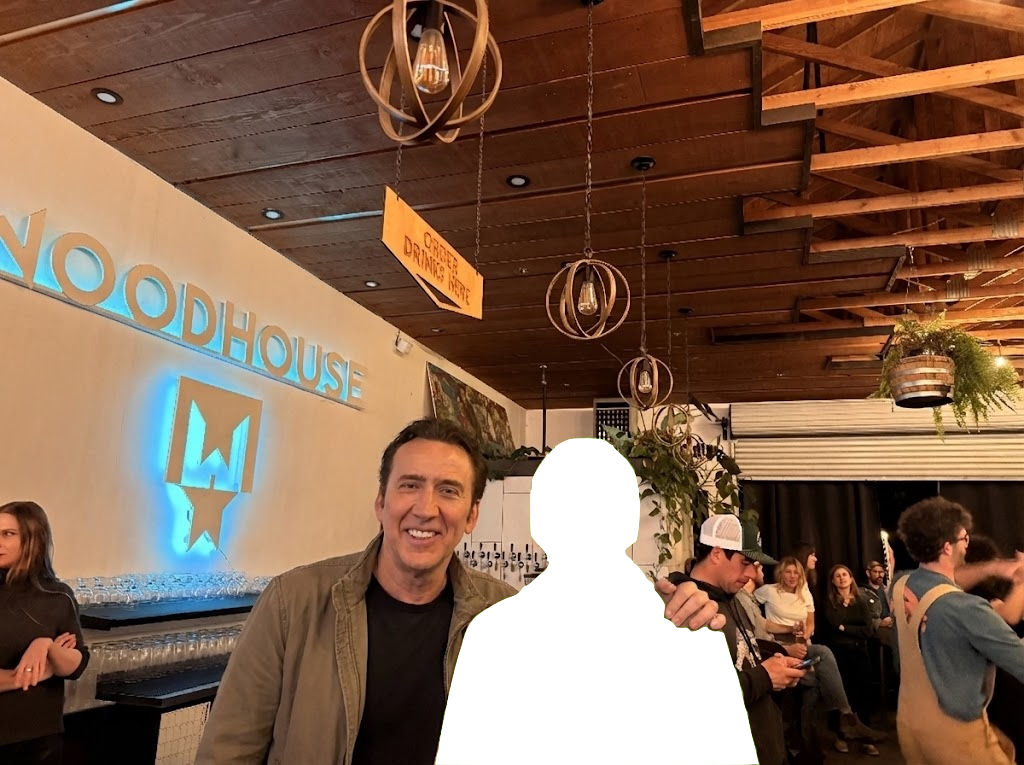
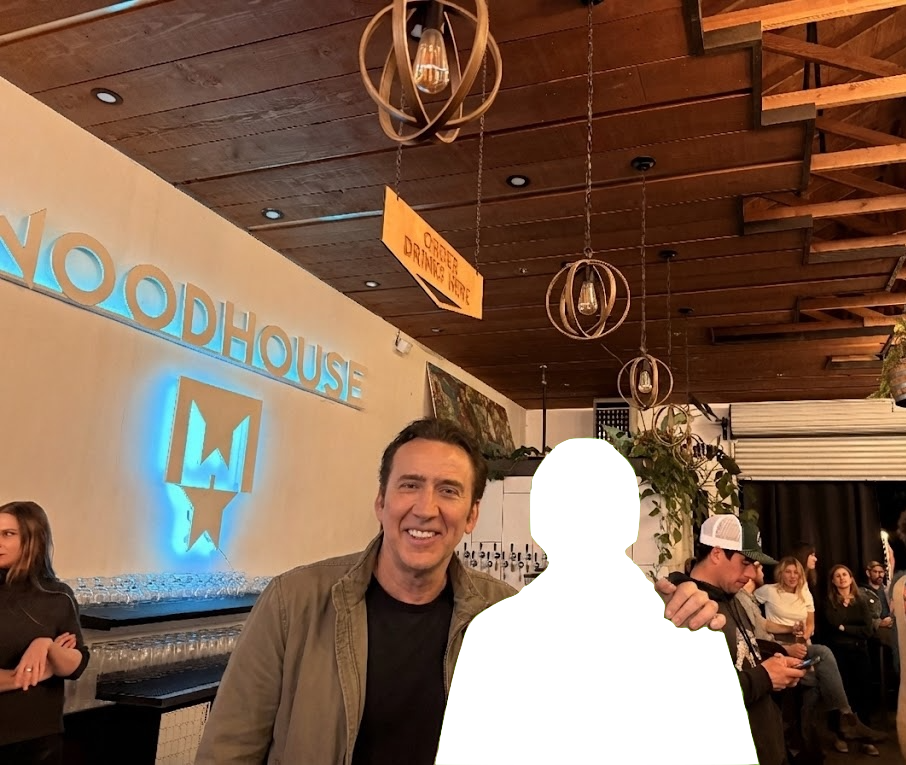
Revamp souvenir gallery and poster composition
Gallery now stores both raw selfies and souvenir images, displaying rank, name, and timestamp for each entry. Poster composition uses calibrated transform values for consistent souvenir generation. The 'Cageify Everyone' toggle now switches between raw and souvenir images in the gallery. Updated template PNG for improved overlay.

diff --git a/docs/forFun/nicCage/leaderboard.js b/docs/forFun/nicCage/leaderboard.js
@@ -23,23 +23,11 @@ document.addEventListener('DOMContentLoaded', () => {
     if (cageifyAllBtn) {
         cageifyAllBtn.addEventListener('click', () => {
             isGlobalCaged = !isGlobalCaged;
-            cageifyAllBtn.textContent = isGlobalCaged ? 'Un-Cage Everyone' : 'Cageify Everyone';
+            cageifyAllBtn.textContent = isGlobalCaged ? 'Un-Cage' : 'Cageify Everyone';
 
-            const overlays = document.querySelectorAll('.cage-overlay');
-            const selfies = document.querySelectorAll('.selfie-img');
-
-            overlays.forEach(overlay => {
-                overlay.style.opacity = isGlobalCaged ? '1' : '0';
-            });
-
-            selfies.forEach(img => {
-                if (isGlobalCaged) {
-                    // Shrunk down (~35% width), bottom-aligned, shifted right
-                    // User request: "Translate down farther, and slightly farther to the right. Align the bottoms"
-                    img.style.transform = 'scale(0.4) translate(35%, 35%)';
-                } else {
-                    img.style.transform = 'none';
-                }
+            const souvenirs = document.querySelectorAll('.souvenir-img');
+            souvenirs.forEach(img => {
+                img.style.opacity = isGlobalCaged ? '1' : '0';
             });
         });
     }
@@ -78,6 +66,11 @@ document.addEventListener('DOMContentLoaded', () => {
         const template = new Image();
         template.src = 'nicCageTemplate.png'; // Using the PNG with transparency
 
+        // Hardcoded Calibration Values (Success)
+        const CAL_X = 0.39;
+        const CAL_Y = 0.51;
+        const CAL_SCALE = 0.50;
+
         template.onload = () => {
             canvas.width = template.width;
             canvas.height = template.height;
@@ -103,44 +96,39 @@ document.addEventListener('DOMContentLoaded', () => {
                 sy = (vHeight - sHeight) / 2;
             }
 
+            // Capture raw photo initial (full size)
             context.save();
-            // Apply vintage filter to match the template style
             context.filter = 'sepia(0.3) contrast(1.1) brightness(0.9)';
-
-            // Draw the video frame nicely cropped to fill the WHOLE canvas
             context.drawImage(video, sx, sy, sWidth, sHeight, 0, 0, canvas.width, canvas.height);
-
             context.restore();
 
-            // CAPTURE RAW SELFIE FOR GALLERY (Before adding template)
-            // This is what will be shown in the gallery initially
             const rawSelfieUrl = canvas.toDataURL('image/jpeg', 0.7);
+            const rawSelfieImg = new Image();
 
-            // CLEAR CANVAS to prepare for "Souvenir" composition
-            context.clearRect(0, 0, canvas.width, canvas.height);
+            rawSelfieImg.onload = () => {
+                // Clear and Redraw with Transform for Composition
+                context.clearRect(0, 0, canvas.width, canvas.height);
 
-            // 1b. Redraw Video with "Cageify" transform for the Poster
-            // Transform: scale(0.4) translate(35%, 35%)
-            // Center-based logic conversion:
-            // Scale 0.4 keeps center. Top-left moves to 0.3W, 0.3H.
-            // Translate 35% adds 0.35W, 0.35H.
-            // Final Dest: X=0.65W, Y=0.65H, W=0.4W, H=0.4H.
-            const destX = canvas.width * 0.65;
-            const destY = canvas.height * 0.65;
-            const destW = canvas.width * 0.4;
-            const destH = canvas.height * 0.4;
+                // 1b. Redraw Photo with Transform
+                const destW = canvas.width * CAL_SCALE;
+                const destH = canvas.height * CAL_SCALE;
+                const destX = canvas.width * CAL_X;
+                const destY = canvas.height * CAL_Y;
 
-            context.save();
-            context.filter = 'sepia(0.3) contrast(1.1) brightness(0.9)';
-            context.drawImage(video, sx, sy, sWidth, sHeight, destX, destY, destW, destH);
-            context.restore();
+                context.drawImage(rawSelfieImg, 0, 0, rawSelfieImg.width, rawSelfieImg.height, destX, destY, destW, destH);
 
-            // 2. Draw Template ON TOP (The hole in the template reveals the photo)
-            context.drawImage(template, 0, 0);
+                // 2. Draw Template ON TOP
+                context.drawImage(template, 0, 0);
 
-            // Export (Result View shows the full poster)
-            posterFinal.src = canvas.toDataURL('image/png');
-            posterFinal.style.display = 'block';
+                // Export Souvenir
+                const souvenirUrl = canvas.toDataURL('image/png');
+                posterFinal.src = souvenirUrl;
+                posterFinal.style.display = 'block';
+
+                // Save to Gallery (Both images)
+                saveToGallery(rawSelfieUrl, souvenirUrl);
+            };
+            rawSelfieImg.src = rawSelfieUrl;
 
             cameraStep.classList.add('hidden');
             resultStep.classList.remove('hidden');
@@ -148,9 +136,6 @@ document.addEventListener('DOMContentLoaded', () => {
             if (stream) {
                 stream.getTracks().forEach(track => track.stop());
             }
-
-            // Save the raw selfie to the gallery
-            saveToGallery(rawSelfieUrl);
         };
 
         template.onerror = () => {
@@ -162,7 +147,7 @@ document.addEventListener('DOMContentLoaded', () => {
     downloadBtn.addEventListener('click', () => {
         const link = document.createElement('a');
         link.download = `NIC_CAGE_HUNT_VICTORY_${agentName.toUpperCase()}.png`;
-        link.href = canvas.toDataURL();
+        link.href = posterFinal.src;
         link.click();
     });
 
@@ -195,15 +180,18 @@ document.addEventListener('DOMContentLoaded', () => {
     });
 
     // --- STORAGE ---
-    function saveToGallery(imageData) {
+    function saveToGallery(selfieData, souvenirData) {
         let gallery = JSON.parse(localStorage.getItem('agentGallery') || '[]');
-        gallery.push({ name: agentName, image: imageData, date: Date.now() }); // Push to end (chronological)
-        if (gallery.length > 32) gallery.shift(); // Remove oldest if full, keeping newest? Or keep oldest?
-        // "First person... at the top". If I push, they are at the bottom of the array.
-        // Wait, display loop order matters. Currently forEach iterates 0..N.
-        // If I use push(), index 0 is first person. Index 0 displays first.
-        // So push() + forEach() = First person at top.
-        // Previous code was unshift(), so Newest was index 0.
+        gallery.push({
+            name: agentName,
+            selfie: selfieData,
+            souvenir: souvenirData,
+            date: Date.now()
+        });
+
+        // Keep last 50
+        if (gallery.length > 50) gallery.shift();
+
         localStorage.setItem('agentGallery', JSON.stringify(gallery));
     }
 
@@ -219,7 +207,9 @@ document.addEventListener('DOMContentLoaded', () => {
             galleryGrid.innerHTML = '<p style="grid-column: 1/-1; text-align: center; opacity: 0.5;">REGISTRY EMPTY</p>';
             return;
         }
-        gallery.forEach(entry => {
+
+        // Show oldest first (chronological)
+        gallery.forEach((entry, index) => {
             const card = document.createElement('div');
             card.style.position = 'relative';
             card.style.background = 'rgba(0,0,0,0.4)';
@@ -231,50 +221,77 @@ document.addEventListener('DOMContentLoaded', () => {
             const imgContainer = document.createElement('div');
             imgContainer.style.position = 'relative';
             imgContainer.style.width = '100%';
-            imgContainer.style.overflow = 'hidden'; // Keep transformed image inside bounds
+            imgContainer.style.aspectRatio = '3/4'; // Enforce aspect ratio to avoid jumps
+            imgContainer.style.overflow = 'hidden';
 
-            // Raw Selfie
+            // 1. Raw Selfie (Base)
+            // Use 'image' property for legacy support, 'selfie' for new
+            const selfieSrc = entry.selfie || entry.image;
+
             const img = document.createElement('img');
-            img.src = entry.image;
+            img.src = selfieSrc;
             img.classList.add('selfie-img');
             img.style.width = '100%';
+            img.style.height = '100%';
+            img.style.objectFit = 'cover';
             img.style.display = 'block';
             img.style.borderRadius = '3px';
-            img.style.transition = 'transform 0.5s ease'; // Smooth move
-            img.style.transformOrigin = 'center center';
 
-            // Cage Overlay (Hidden by default)
-            const overlay = document.createElement('img');
-            overlay.src = 'nicCageTemplate.png';
-            overlay.classList.add('cage-overlay');
-            overlay.style.position = 'absolute';
-            overlay.style.top = '0';
-            overlay.style.left = '0';
-            overlay.style.width = '100%';
-            overlay.style.height = '100%';
-            overlay.style.opacity = '0';
-            overlay.style.transition = 'opacity 0.3s ease';
-            overlay.style.pointerEvents = 'none';
+            // 2. Souvenir (Overlay, toggleable)
+            // If legacy entry has no souvenir, maybe generate one on fly? typically hard.
+            // Just show nothing or fallback.
+            const souvenirSrc = entry.souvenir;
 
             imgContainer.appendChild(img);
-            imgContainer.appendChild(overlay);
 
-            // Name
-            const nameP = document.createElement('p');
-            nameP.style.fontSize = '0.7rem';
-            nameP.style.color = 'var(--primary-gold)';
-            nameP.style.marginTop = '5px';
-            nameP.textContent = entry.name;
+            if (souvenirSrc) {
+                const souvenirImg = document.createElement('img');
+                souvenirImg.src = souvenirSrc;
+                souvenirImg.classList.add('souvenir-img'); // Hook for toggle
+                souvenirImg.style.position = 'absolute';
+                souvenirImg.style.top = '0';
+                souvenirImg.style.left = '0';
+                souvenirImg.style.width = '100%';
+                souvenirImg.style.height = '100%';
+                souvenirImg.style.objectFit = 'contain'; // Souvenir preserves its ratio
+                souvenirImg.style.opacity = '0'; // Hidden by default
+                souvenirImg.style.transition = 'opacity 0.5s ease';
+                imgContainer.appendChild(souvenirImg);
+            }
+
+            // Details: Rank, Name, Time
+            const detailsDiv = document.createElement('div');
+            detailsDiv.style.marginTop = '10px';
+            detailsDiv.style.display = 'flex';
+            detailsDiv.style.justifyContent = 'space-between';
+            detailsDiv.style.alignItems = 'end';
+
+            const leftInfo = document.createElement('div');
+            leftInfo.style.fontFamily = 'Cinzel, serif';
+            leftInfo.innerHTML = `
+                <span style="font-size: 1.2rem; font-weight: bold; color: var(--primary-gold); margin-right: 5px;">#${index + 1}</span>
+                <span style="font-size: 1rem; color: var(--primary-gold);">${entry.name}</span>
+            `;
+
+            const rightInfo = document.createElement('div');
+            const dateStr = entry.date ? new Date(entry.date).toLocaleString([], {
+                month: 'short',
+                day: 'numeric',
+                hour: '2-digit',
+                minute: '2-digit'
+            }) : '';
+            rightInfo.textContent = dateStr;
+            rightInfo.style.fontSize = '0.7rem';
+            rightInfo.style.color = 'rgba(212, 175, 55, 0.7)';
+
+            detailsDiv.appendChild(leftInfo);
+            detailsDiv.appendChild(rightInfo);
 
             card.appendChild(imgContainer);
-            card.appendChild(nameP);
+            card.appendChild(detailsDiv);
 
             galleryGrid.appendChild(card);
         });
     }
 
-    function finalizeDossier() {
-        const dataUrl = canvas.toDataURL('image/jpeg', 0.6);
-        saveToGallery(dataUrl);
-    }
 });

diff --git a/docs/forFun/nicCage/leaderboard.html b/docs/forFun/nicCage/leaderboard.html
@@ -110,6 +110,9 @@
             <h2>Victory Recorded</h2>
             <p>You have successfully decoded the secrets.</p>
             <canvas id="canvas"></canvas>
+
+
+
             <img id="poster-final" class="poster-preview">
             <div class="controls">
                 <button id="download-btn" class="cta-button">Download Souvenir</button>
